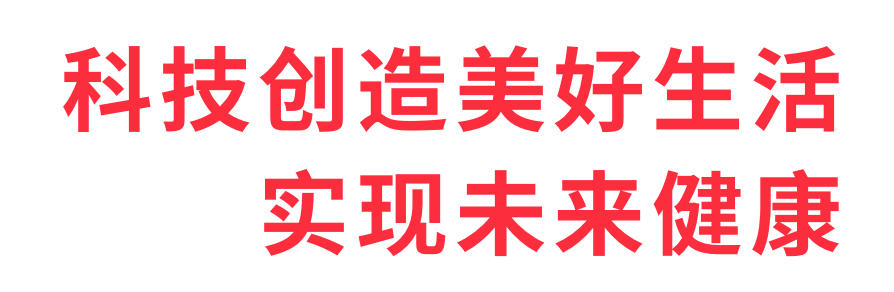
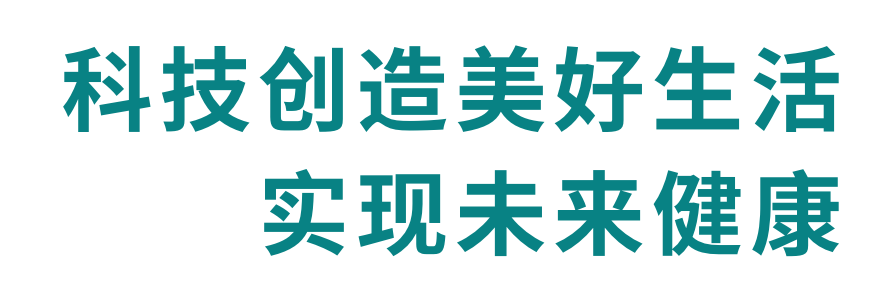
修改首页图片以及行高

Changed region(s): [[0.0604, 0.1541, 0.9362, 0.4623], [0.2718, 0.5856, 0.9362, 0.8938]]

diff --git a/pages/index.vue b/pages/index.vue
@@ -108,14 +108,13 @@
 
 <style scoped>
 .text-font {
-  font-family: Source Han Sans CN;
+  font-family: Source Han Sans SC;
 }
 
 .scroll-text {
   font-weight: 800;
-  color: transparent;
   text-align: left;
-  -webkit-text-stroke: 2px #FFF;
+  color: white;
 }
 
 :deep(.marquee-item) {

diff --git a/assets/css/main.css b/assets/css/main.css
@@ -7,6 +7,7 @@ html {
     white-space: pre-wrap;
     text-align: justify;
     text-justify: inter-ideograph;
+    line-height: 32px;
 }
 
 .button {
